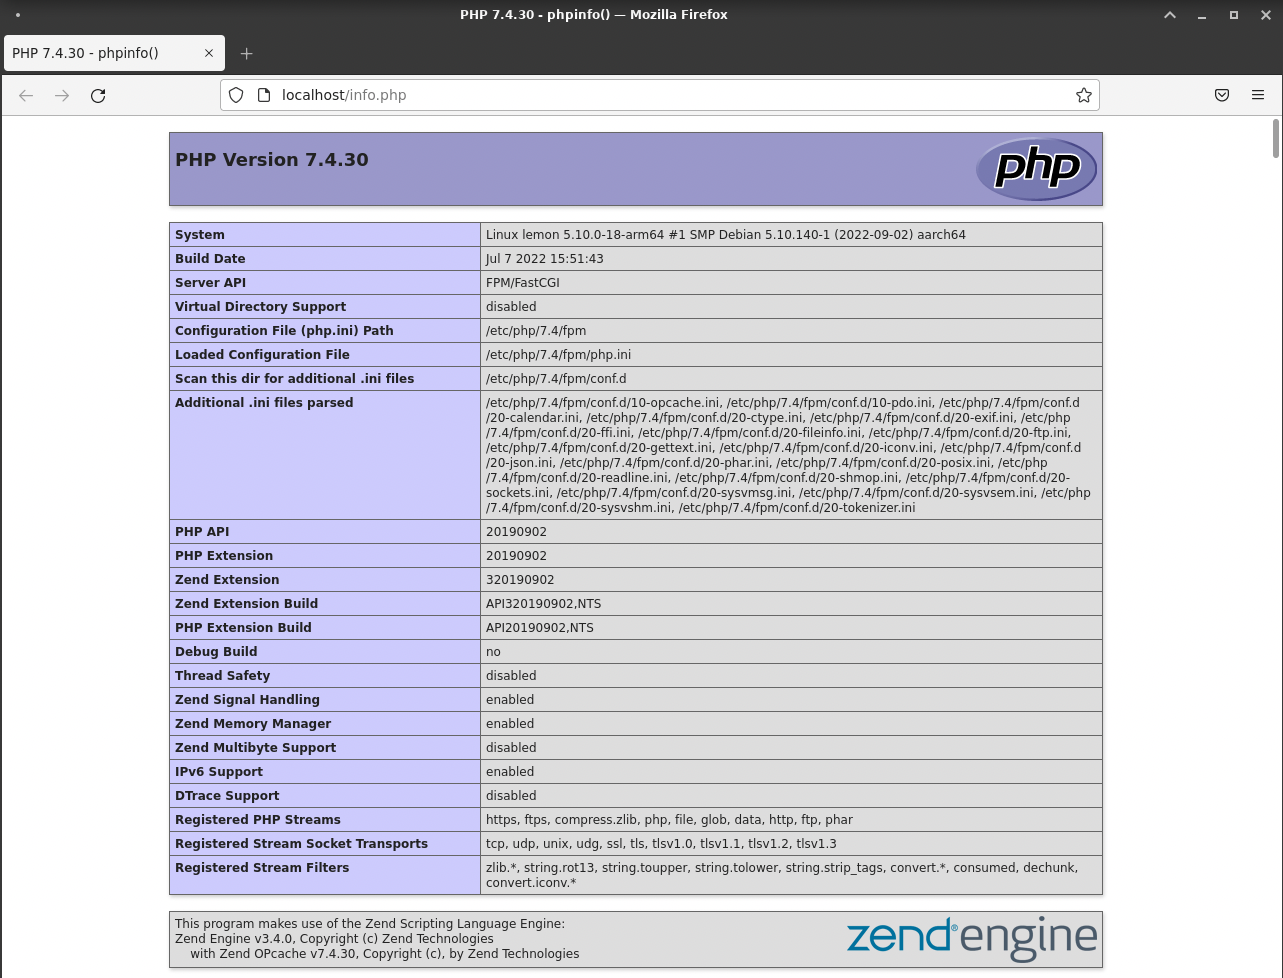
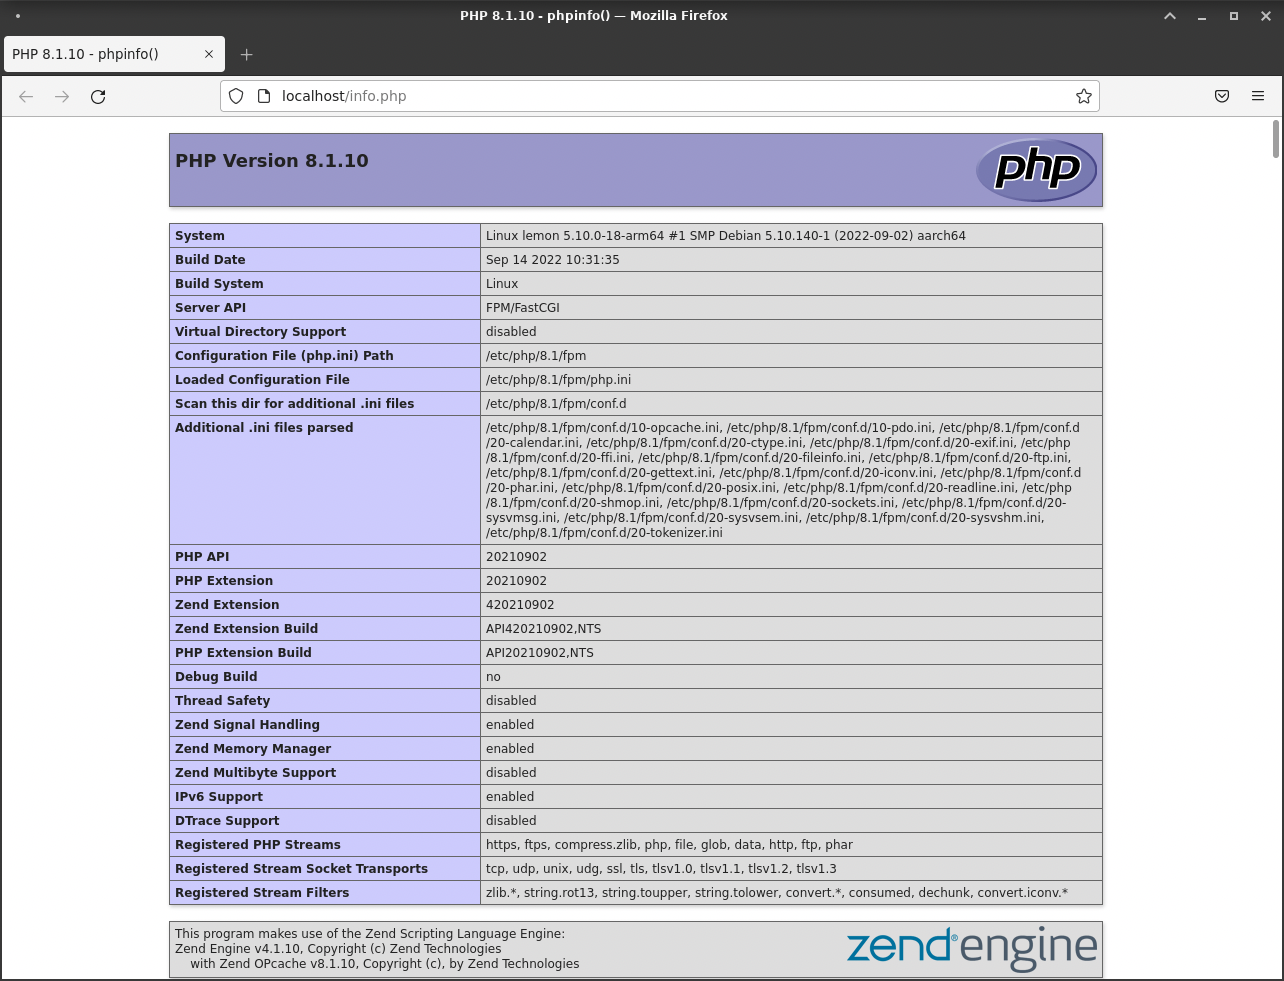
Update php-fpm to 8.1

diff --git a/UT1/implantacion-web.md b/UT1/implantacion-web.md
@@ -353,160 +353,92 @@ El funcionamiento de un servidor de aplicaciones necesita de un servidor web. Mu
 
 Cuando un cliente hace una petición al servidor web, este trata de gestionarlo, pero hay muchos elementos con los que no sabe qué hacer. Aquí entra en juego el servidor de aplicaciones, que descarga al servidor web de la gestión de determinados tipos de archivo.
 
+A continuación veremos el despliegue de una aplicación PHP como ejemplo de servidor de aplicaciones.
+
 ### PHP
 
 [PHP](https://www.php.net/) es un lenguaje de "scripting" muy enfocado a la programación web (aunque no únicamente) y permite desarrollar aplicaciones integradas en el propio código HTML.
 
 El servidor de aplicación que se utiliza para PHP es [PHP-FPM](https://www.php.net/manual/es/install.fpm.php). Se encarga de manejar los procesos [FastCGI](https://es.wikipedia.org/wiki/FastCGI), un protocolo para interconectar programas interactivos con un servidor web.
 
-Para **instalar PHP-FPM** ejecutamos el siguiente comando:
+Para **instalar PHP-FPM** seguiremos los pasos indicados.
+
+En primer lugar debemos instalar algunos prerrequisitos:
 
 ```console
-sdelquin@lemon:~$ sudo apt install -y php-fpm
+sdelquin@lemon:~$ sudo apt update
+sdelquin@lemon:~$ sudo apt install -y lsb-release ca-certificates apt-transport-https software-properties-common gnupg2
+...
+...
+```
+
+Añadimos el repositorio (externo) desde donde descargarnos la última versión de PHP-FPM:
+
+```console
+sdelquin@lemon:~$ echo "deb https://packages.sury.org/php/ $(lsb_release -sc) main" | sudo tee /etc/apt/sources.list.d/sury-php.list
+```
+
+Importamos la clave [GPG](https://es.wikipedia.org/wiki/GNU_Privacy_Guard) del repositorio:
+
+```console
+sdelquin@lemon:~$ curl -fsSL  https://packages.sury.org/php/apt.gpg| sudo gpg --dearmor -o /etc/apt/trusted.gpg.d/sury-keyring.gpg
+```
+
+Confirmamos que el repositorio está funcionando tras actualizar las fuentes:
+
+```console
+sdelquin@lemon:~$ sudo apt update
+Obj:1 http://deb.debian.org/debian bullseye InRelease
+Obj:2 http://security.debian.org/debian-security bullseye-security InRelease
+Obj:3 http://deb.debian.org/debian bullseye-updates InRelease
+Obj:4 http://packages.microsoft.com/repos/code stable InRelease
+Obj:5 https://packages.sury.org/php bullseye InRelease
 Leyendo lista de paquetes... Hecho
 Creando árbol de dependencias... Hecho
 Leyendo la información de estado... Hecho
-Se instalarán los siguientes paquetes adicionales:
-  php-common php7.4-cli php7.4-common php7.4-fpm php7.4-json php7.4-opcache php7.4-readline
-Paquetes sugeridos:
-  php-pear
-Se instalarán los siguientes paquetes NUEVOS:
-  php-common php-fpm php7.4-cli php7.4-common php7.4-fpm php7.4-json php7.4-opcache php7.4-readline
-0 actualizados, 8 nuevos se instalarán, 0 para eliminar y 0 no actualizados.
-Se necesita descargar 3.845 kB de archivos.
-Se utilizarán 17,9 MB de espacio de disco adicional después de esta operación.
-Des:1 http://deb.debian.org/debian bullseye/main arm64 php-common all 2:76 [15,6 kB]
-Des:2 http://deb.debian.org/debian bullseye/main arm64 php7.4-common arm64 7.4.30-1+deb11u1 [1.000 kB]
-Des:3 http://deb.debian.org/debian bullseye/main arm64 php7.4-json arm64 7.4.30-1+deb11u1 [18,2 kB]
-Des:4 http://deb.debian.org/debian bullseye/main arm64 php7.4-opcache arm64 7.4.30-1+deb11u1 [179 kB]
-Des:5 http://deb.debian.org/debian bullseye/main arm64 php7.4-readline arm64 7.4.30-1+deb11u1 [11,6 kB]
-Des:6 http://deb.debian.org/debian bullseye/main arm64 php7.4-cli arm64 7.4.30-1+deb11u1 [1.302 kB]
-Des:7 http://deb.debian.org/debian bullseye/main arm64 php7.4-fpm arm64 7.4.30-1+deb11u1 [1.313 kB]
-Des:8 http://deb.debian.org/debian bullseye/main arm64 php-fpm all 2:7.4+76 [6.424 B]
-Descargados 3.845 kB en 0s (9.465 kB/s)
-Seleccionando el paquete php-common previamente no seleccionado.
-(Leyendo la base de datos ... 220357 ficheros o directorios instalados actualmente.)
-Preparando para desempaquetar .../0-php-common_2%3a76_all.deb ...
-Desempaquetando php-common (2:76) ...
-Seleccionando el paquete php7.4-common previamente no seleccionado.
-Preparando para desempaquetar .../1-php7.4-common_7.4.30-1+deb11u1_arm64.deb ...
-Desempaquetando php7.4-common (7.4.30-1+deb11u1) ...
-Seleccionando el paquete php7.4-json previamente no seleccionado.
-Preparando para desempaquetar .../2-php7.4-json_7.4.30-1+deb11u1_arm64.deb ...
-Desempaquetando php7.4-json (7.4.30-1+deb11u1) ...
-Seleccionando el paquete php7.4-opcache previamente no seleccionado.
-Preparando para desempaquetar .../3-php7.4-opcache_7.4.30-1+deb11u1_arm64.deb ...
-Desempaquetando php7.4-opcache (7.4.30-1+deb11u1) ...
-Seleccionando el paquete php7.4-readline previamente no seleccionado.
-Preparando para desempaquetar .../4-php7.4-readline_7.4.30-1+deb11u1_arm64.deb ...
-Desempaquetando php7.4-readline (7.4.30-1+deb11u1) ...
-Seleccionando el paquete php7.4-cli previamente no seleccionado.
-Preparando para desempaquetar .../5-php7.4-cli_7.4.30-1+deb11u1_arm64.deb ...
-Desempaquetando php7.4-cli (7.4.30-1+deb11u1) ...
-Seleccionando el paquete php7.4-fpm previamente no seleccionado.
-Preparando para desempaquetar .../6-php7.4-fpm_7.4.30-1+deb11u1_arm64.deb ...
-Desempaquetando php7.4-fpm (7.4.30-1+deb11u1) ...
-Seleccionando el paquete php-fpm previamente no seleccionado.
-Preparando para desempaquetar .../7-php-fpm_2%3a7.4+76_all.deb ...
-Desempaquetando php-fpm (2:7.4+76) ...
-Configurando php-common (2:76) ...
-Created symlink /etc/systemd/system/timers.target.wants/phpsessionclean.timer → /lib/systemd/system/phpsession
-clean.timer.
-Configurando php7.4-common (7.4.30-1+deb11u1) ...
+Todos los paquetes están actualizados.
+```
 
-Creating config file /etc/php/7.4/mods-available/calendar.ini with new version
+Ahora ya podemos instalar PHP-FPM:
 
-Creating config file /etc/php/7.4/mods-available/ctype.ini with new version
-
-Creating config file /etc/php/7.4/mods-available/exif.ini with new version
-
-Creating config file /etc/php/7.4/mods-available/fileinfo.ini with new version
-
-Creating config file /etc/php/7.4/mods-available/ffi.ini with new version
-
-Creating config file /etc/php/7.4/mods-available/ftp.ini with new version
-
-Creating config file /etc/php/7.4/mods-available/gettext.ini with new version
-
-Creating config file /etc/php/7.4/mods-available/iconv.ini with new version
-
-Creating config file /etc/php/7.4/mods-available/pdo.ini with new version
-
-Creating config file /etc/php/7.4/mods-available/phar.ini with new version
-
-Creating config file /etc/php/7.4/mods-available/posix.ini with new version
-
-Creating config file /etc/php/7.4/mods-available/shmop.ini with new version
-
-Creating config file /etc/php/7.4/mods-available/sockets.ini with new version
-
-Creating config file /etc/php/7.4/mods-available/sysvmsg.ini with new version
-
-Creating config file /etc/php/7.4/mods-available/sysvsem.ini with new version
-
-Creating config file /etc/php/7.4/mods-available/sysvshm.ini with new version
-
-Creating config file /etc/php/7.4/mods-available/tokenizer.ini with new version
-Configurando php7.4-readline (7.4.30-1+deb11u1) ...
-
-Creating config file /etc/php/7.4/mods-available/readline.ini with new version
-Configurando php7.4-opcache (7.4.30-1+deb11u1) ...
-
-Creating config file /etc/php/7.4/mods-available/opcache.ini with new version
-Configurando php7.4-json (7.4.30-1+deb11u1) ...
-
-Creating config file /etc/php/7.4/mods-available/json.ini with new version
-Configurando php7.4-cli (7.4.30-1+deb11u1) ...
-update-alternatives: utilizando /usr/bin/php7.4 para proveer /usr/bin/php (php) en modo automático
-update-alternatives: utilizando /usr/bin/phar7.4 para proveer /usr/bin/phar (phar) en modo automático
-update-alternatives: utilizando /usr/bin/phar.phar7.4 para proveer /usr/bin/phar.phar (phar.phar) en modo auto
-mático
-
-Creating config file /etc/php/7.4/cli/php.ini with new version
-Configurando php7.4-fpm (7.4.30-1+deb11u1) ...
-
-Creating config file /etc/php/7.4/fpm/php.ini with new version
-Created symlink /etc/systemd/system/multi-user.target.wants/php7.4-fpm.service → /lib/systemd/system/php7.4-fp
-m.service.
-Configurando php-fpm (2:7.4+76) ...
-Procesando disparadores para man-db (2.9.4-2) ...
-Procesando disparadores para php7.4-cli (7.4.30-1+deb11u1) ...
-Procesando disparadores para php7.4-fpm (7.4.30-1+deb11u1) ...
+```console
+sdelquin@lemon:~$ sudo apt install -y php8.1-fpm
+...
+...
+...
 ```
 
 Dado que PHP-FPM se instala en el sistema como un **servicio**, podemos comprobar su estado utilizando systemd:
 
 ```console
-sdelquin@lemon:~$ sudo systemctl status php7.4-fpm
-● php7.4-fpm.service - The PHP 7.4 FastCGI Process Manager
-     Loaded: loaded (/lib/systemd/system/php7.4-fpm.service; enabled; vendor preset: enabled)
-     Active: active (running) since Thu 2022-09-15 10:49:39 WEST; 26min ago
-       Docs: man:php-fpm7.4(8)
-    Process: 25991 ExecStartPost=/usr/lib/php/php-fpm-socket-helper install /run/php/php-fpm.sock /etc/php/7.>
-   Main PID: 25988 (php-fpm7.4)
-     Status: "Processes active: 0, idle: 2, Requests: 0, slow: 0, Traffic: 0req/sec"
+sdelquin@lemon:~$ sudo systemctl status php8.1-fpm
+● php8.1-fpm.service - The PHP 8.1 FastCGI Process Manager
+     Loaded: loaded (/lib/systemd/system/php8.1-fpm.service; enabled; vendor preset: enabled)
+     Active: active (running) since Fri 2022-09-16 11:38:52 WEST; 39min ago
+       Docs: man:php-fpm8.1(8)
+    Process: 73647 ExecStartPost=/usr/lib/php/php-fpm-socket-helper install /run/php/php-fpm.sock /etc/php/8>
+   Main PID: 73644 (php-fpm8.1)
+     Status: "Processes active: 0, idle: 2, Requests: 1, slow: 0, Traffic: 0req/sec"
       Tasks: 3 (limit: 2251)
-     Memory: 8.5M
-        CPU: 125ms
-     CGroup: /system.slice/php7.4-fpm.service
-             ├─25988 php-fpm: master process (/etc/php/7.4/fpm/php-fpm.conf)
-             ├─25989 php-fpm: pool www
-             └─25990 php-fpm: pool www
+     Memory: 9.4M
+        CPU: 181ms
+     CGroup: /system.slice/php8.1-fpm.service
+             ├─73644 php-fpm: master process (/etc/php/8.1/fpm/php-fpm.conf)
+             ├─73645 php-fpm: pool www
+             └─73646 php-fpm: pool www
 
-sep 15 10:49:39 lemon systemd[1]: php7.4-fpm.service: Succeeded.
-sep 15 10:49:39 lemon systemd[1]: Stopped The PHP 7.4 FastCGI Process Manager.
-sep 15 10:49:39 lemon systemd[1]: Starting The PHP 7.4 FastCGI Process Manager...
-sep 15 10:49:39 lemon systemd[1]: Started The PHP 7.4 FastCGI Process Manager.
+sep 16 11:38:52 lemon systemd[1]: Starting The PHP 8.1 FastCGI Process Manager...
+sep 16 11:38:52 lemon systemd[1]: Started The PHP 8.1 FastCGI Process Manager.
 ```
 
 Con esta instalación, también hemos instalado el propio **intéprete PHP** para ejecutar programas:
 
 ```console
 sdelquin@lemon:~$ php --version
-PHP 7.4.30 (cli) (built: Jul  7 2022 15:51:43) ( NTS )
+PHP 8.1.10 (cli) (built: Sep 14 2022 10:31:35) (NTS)
 Copyright (c) The PHP Group
-Zend Engine v3.4.0, Copyright (c) Zend Technologies
-    with Zend OPcache v7.4.30, Copyright (c), by Zend Technologies
+Zend Engine v4.1.10, Copyright (c) Zend Technologies
+    with Zend OPcache v8.1.10, Copyright (c), by Zend Technologies
 ```
 
 Podemos probar que funciona bien ejecutando, por ejemplo, una instrucción en PHP que devuelve el nombre de nuestra máquina:
@@ -538,7 +470,7 @@ Y modificar lo siguiente:
 57                 include snippets/fastcgi-php.conf;
 58
 59                 # With php-fpm (or other unix sockets):
-60                 fastcgi_pass unix:/run/php/php7.4-fpm.sock;
+60                 fastcgi_pass unix:/run/php/php8.1-fpm.sock;
 61                 # With php-cgi (or other tcp sockets):
 62                 # fastcgi_pass 127.0.0.1:9000;
 63         }
